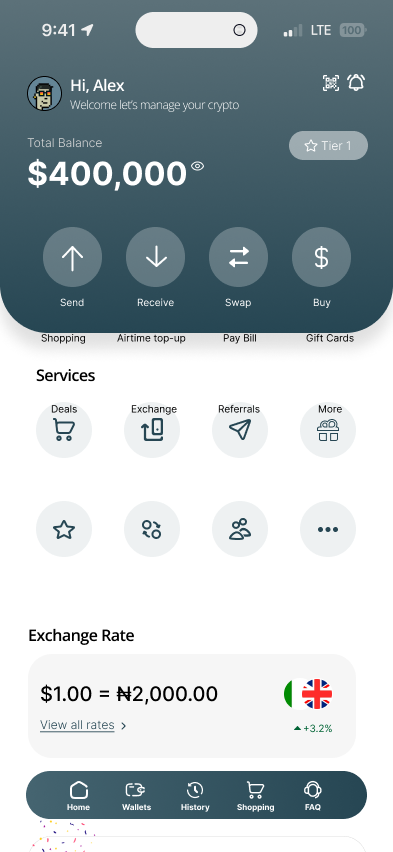
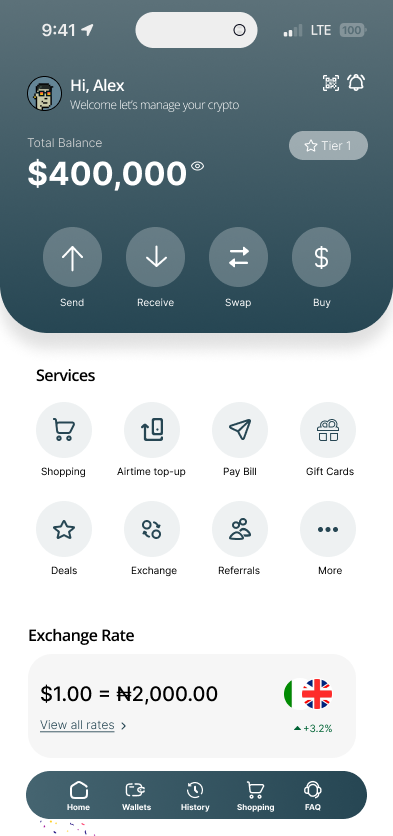
Help2Pay: BroadMoney-style mockups + correct dashboard
- Phone mockups: cs-phone with aspect-ratio 9/19.5, inset screen, object-fit cover
- Laptop mockups: BroadMoney-style with traffic light dots, proper base bar
- Corrected dashboard image (Hi Alex with Services grid)
- All screens fit properly in frames without distortion

diff --git a/case-help2pay.html b/case-help2pay.html
@@ -58,22 +58,22 @@
   .footer__copyright{text-align:center;font-size:12px;color:rgba(249,247,242,.3);margin-top:48px;padding-top:24px;border-top:.5px solid rgba(249,247,242,.1)}
   .reveal{opacity:0;transform:translateY(24px);transition:opacity .7s ease,transform .7s ease}.reveal.visible{opacity:1;transform:none}
   
-  /* PHONE MOCKUP */
+  /* PHONE MOCKUP — matches BroadMoney style */
   .phone-card{text-align:center}
-  .phone-card__mockup{width:220px;margin:0 auto;padding:10px;background:#1a1a1a;border-radius:32px;box-shadow:0 20px 60px rgba(0,0,0,.18),inset 0 0 0 2px rgba(255,255,255,.08);position:relative;overflow:hidden}
-  .phone-card__mockup::before{content:'';position:absolute;top:10px;left:50%;transform:translateX(-50%);width:80px;height:22px;background:#1a1a1a;border-radius:0 0 14px 14px;z-index:2}
-  .phone-card__mockup img{width:100%;border-radius:22px;display:block}
+  .cs-phone{width:220px;margin:0 auto;flex-shrink:0;aspect-ratio:9/19.5;background:#1A1A1A;border-radius:36px;box-shadow:0 24px 60px rgba(0,0,0,0.15),0 0 0 1.5px #333;overflow:hidden;position:relative}
+  .cs-phone::before{content:'';position:absolute;top:10px;left:50%;transform:translateX(-50%);width:64px;height:20px;background:#1A1A1A;border-radius:16px;z-index:10}
+  .cs-phone__screen{position:absolute;inset:3px;border-radius:29px;overflow:hidden;background:#fff}
+  .cs-phone__screen img{width:100%;height:100%;object-fit:cover;object-position:top;display:block}
   .phone-card__caption{margin-top:14px;font-size:12px;font-weight:500;letter-spacing:.08em;text-transform:uppercase;color:var(--stone)}
 
-  /* LAPTOP MOCKUP */
-  .cs-laptop-wrap{max-width:1100px;margin:48px auto;padding:0 44px}
-  .cs-laptop{background:#1a1a1a;border-radius:12px 12px 0 0;padding:12px 12px 0;box-shadow:0 20px 60px rgba(0,0,0,.2)}
-  .cs-laptop__bar{display:flex;align-items:center;gap:6px;padding:0 8px 10px}
-  .cs-laptop__dot{width:10px;height:10px;border-radius:50%}
-  .cs-laptop__dot--r{background:#FF5F57}.cs-laptop__dot--y{background:#FFBD2E}.cs-laptop__dot--g{background:#28CA42}
-  .cs-laptop__label{margin-left:auto;font-size:11px;color:rgba(255,255,255,.4);letter-spacing:.1em;text-transform:uppercase}
-  .cs-laptop img{width:100%;display:block;border-radius:4px 4px 0 0}
-  .cs-laptop-base{height:14px;background:#2a2a2a;border-radius:0 0 8px 8px;margin:0 44px}
+  /* LAPTOP MOCKUP — matches BroadMoney style */
+  .cs-laptop-wrap{max-width:920px;margin:32px auto;padding:32px 44px}
+  .cs-laptop{position:relative;border-radius:12px 12px 0 0;overflow:hidden;border:2px solid #333;border-bottom:none;background:#1A1A1A;padding:28px 2px 0;box-shadow:0 16px 48px rgba(0,0,0,0.12)}
+  .cs-laptop::before{content:'';position:absolute;top:0;left:0;right:0;height:28px;background:#2A2A2A;z-index:5}
+  .cs-laptop::after{content:'● ● ●';position:absolute;top:6px;left:14px;font-size:9px;letter-spacing:5px;color:#666;z-index:6}
+  .cs-laptop__screen{width:100%;display:block}
+  .cs-laptop-base{max-width:920px;margin:0 auto;padding:0 44px}
+  .cs-laptop-base__bar{height:14px;background:linear-gradient(to bottom,#555,#333);border-radius:0 0 10px 10px;margin:0 40px;box-shadow:0 4px 12px rgba(0,0,0,0.1)}
 
   /* BEFORE/AFTER */
   .ba-grid{display:grid;grid-template-columns:1fr 1fr;gap:32px;margin:40px 0;align-items:start}
@@ -131,7 +131,7 @@
     .footer__newsletter{padding-left:0;grid-column:1/-1}
     .footer__nameplate{font-size:28vw}
     .cs-laptop-wrap{padding:0 20px}
-    .phone-card__mockup{width:160px}
+    .cs-phone{width:160px}
   }
 </style>
 </head>
@@ -152,9 +152,8 @@
     </div>
   </div>
   <div class="cs-hero__image">
-    <div class="phone-card__mockup" style="width:260px;box-shadow:0 30px 80px rgba(0,0,0,.35)">
-      <img src="h2p-dashboard-new.png" alt="Help2Pay dashboard" />
-    </div>
+    <div class="cs-phone" style="width:260px;box-shadow:0 30px 80px rgba(0,0,0,.35)">
+      <img class="cs-laptop__screen" src="h2p-dashboard-new.png" alt="Help2Pay dashboard" /></div></div>
   </div>
 </section>
 
@@ -195,12 +194,12 @@
     <div class="ba-grid">
       <div class="ba-card">
         <span class="ba-label ba-label--before">Before</span>
-        <div class="phone-card__mockup"><img src="h2p-dashboard-old.png" alt="Original dashboard hiding features" loading="lazy" /></div>
+        <div class="cs-phone"><div class="cs-phone__screen"><img class="cs-laptop__screen" src="h2p-dashboard-old.png" alt="Original dashboard hiding features" loading="lazy" /></div>
         <p class="ba-desc">Features hidden behind nested menus. Gift cards, bills, exchange — users couldn't find them.</p>
       </div>
       <div class="ba-card">
         <span class="ba-label ba-label--after">After redesign</span>
-        <div class="phone-card__mockup"><img src="h2p-dashboard-new.png" alt="Redesigned dashboard with features surfaced" loading="lazy" /></div>
+        <div class="cs-phone"><div class="cs-phone__screen"><img class="cs-laptop__screen" src="h2p-dashboard-new.png" alt="Redesigned dashboard with features surfaced" loading="lazy" /></div>
         <p class="ba-desc">Every service visible above the fold. Feature engagement increased, task completion improved.</p>
       </div>
     </div>
@@ -218,14 +217,14 @@
     <h2>Onboarding that converts <em>skeptics</em></h2>
     <p class="cs-lead">For users new to crypto, the first three screens determine whether they stay or delete. The onboarding strips away jargon, focuses on what the app does (not how it works), and gets users to their first action in under 90 seconds.</p>
     <div class="phone-grid">
-      <div class="phone-card"><div class="phone-card__mockup"><img src="h2p-01-onboarding.png" alt="Onboarding welcome" loading="lazy" /></div><div class="phone-card__caption">Welcome</div></div>
-      <div class="phone-card"><div class="phone-card__mockup"><img src="h2p-03-onboarding-2.png" alt="Onboarding value prop" loading="lazy" /></div><div class="phone-card__caption">Value proposition</div></div>
-      <div class="phone-card"><div class="phone-card__mockup"><img src="h2p-05-sign-up.png" alt="Sign up" loading="lazy" /></div><div class="phone-card__caption">Sign up</div></div>
+      <div class="phone-card"><div class="cs-phone"><div class="cs-phone__screen"><img class="cs-laptop__screen" src="h2p-01-onboarding.png" alt="Onboarding welcome" loading="lazy" /></div></div><div class="phone-card__caption">Welcome</div></div>
+      <div class="phone-card"><div class="cs-phone"><div class="cs-phone__screen"><img class="cs-laptop__screen" src="h2p-03-onboarding-2.png" alt="Onboarding value prop" loading="lazy" /></div></div><div class="phone-card__caption">Value proposition</div></div>
+      <div class="phone-card"><div class="cs-phone"><div class="cs-phone__screen"><img class="cs-laptop__screen" src="h2p-05-sign-up.png" alt="Sign up" loading="lazy" /></div></div><div class="phone-card__caption">Sign up</div></div>
     </div>
     <div class="phone-grid">
-      <div class="phone-card"><div class="phone-card__mockup"><img src="h2p-04-sign-in.png" alt="Sign in" loading="lazy" /></div><div class="phone-card__caption">Sign in</div></div>
-      <div class="phone-card"><div class="phone-card__mockup"><img src="h2p-09-pin.png" alt="Set PIN" loading="lazy" /></div><div class="phone-card__caption">Set PIN</div></div>
-      <div class="phone-card"><div class="phone-card__mockup"><img src="h2p-06-welcome.png" alt="Welcome success" loading="lazy" /></div><div class="phone-card__caption">Welcome aboard</div></div>
+      <div class="phone-card"><div class="cs-phone"><div class="cs-phone__screen"><img class="cs-laptop__screen" src="h2p-04-sign-in.png" alt="Sign in" loading="lazy" /></div></div><div class="phone-card__caption">Sign in</div></div>
+      <div class="phone-card"><div class="cs-phone"><div class="cs-phone__screen"><img class="cs-laptop__screen" src="h2p-09-pin.png" alt="Set PIN" loading="lazy" /></div></div><div class="phone-card__caption">Set PIN</div></div>
+      <div class="phone-card"><div class="cs-phone"><div class="cs-phone__screen"><img class="cs-laptop__screen" src="h2p-06-welcome.png" alt="Welcome success" loading="lazy" /></div></div><div class="phone-card__caption">Welcome aboard</div></div>
     </div>
   </section>
 
@@ -237,20 +236,20 @@
     <div class="ba-grid">
       <div class="ba-card">
         <span class="ba-label ba-label--before">Before — dense single screen</span>
-        <div class="phone-card__mockup"><img src="h2p-send-v2.png" alt="Original send money screen" loading="lazy" /></div>
+        <div class="cs-phone"><div class="cs-phone__screen"><img class="cs-laptop__screen" src="h2p-send-v2.png" alt="Original send money screen" loading="lazy" /></div>
         <p class="ba-desc">Currency, bank, amount, and fees all on one screen. Users paused at conversion math.</p>
       </div>
       <div class="ba-card">
         <span class="ba-label ba-label--after">After — progressive steps</span>
-        <div class="phone-card__mockup"><img src="h2p-send-filled.png" alt="Redesigned send flow" loading="lazy" /></div>
+        <div class="cs-phone"><div class="cs-phone__screen"><img class="cs-laptop__screen" src="h2p-send-filled.png" alt="Redesigned send flow" loading="lazy" /></div>
         <p class="ba-desc">Fee and rate visible before commitment. Bank details confirmed separately. One decision per screen.</p>
       </div>
     </div>
     <div class="phone-grid phone-grid--4">
-      <div class="phone-card"><div class="phone-card__mockup"><img src="h2p-send-bank.png" alt="Send - select bank" loading="lazy" /></div><div class="phone-card__caption">Choose method</div></div>
-      <div class="phone-card"><div class="phone-card__mockup"><img src="h2p-07-send.png" alt="Send amount" loading="lazy" /></div><div class="phone-card__caption">Enter amount</div></div>
-      <div class="phone-card"><div class="phone-card__mockup"><img src="h2p-08-summary.png" alt="Transaction summary" loading="lazy" /></div><div class="phone-card__caption">Review summary</div></div>
-      <div class="phone-card"><div class="phone-card__mockup"><img src="h2p-10-success.png" alt="Success" loading="lazy" /></div><div class="phone-card__caption">Success</div></div>
+      <div class="phone-card"><div class="cs-phone"><div class="cs-phone__screen"><img class="cs-laptop__screen" src="h2p-send-bank.png" alt="Send - select bank" loading="lazy" /></div></div><div class="phone-card__caption">Choose method</div></div>
+      <div class="phone-card"><div class="cs-phone"><div class="cs-phone__screen"><img class="cs-laptop__screen" src="h2p-07-send.png" alt="Send amount" loading="lazy" /></div></div><div class="phone-card__caption">Enter amount</div></div>
+      <div class="phone-card"><div class="cs-phone"><div class="cs-phone__screen"><img class="cs-laptop__screen" src="h2p-08-summary.png" alt="Transaction summary" loading="lazy" /></div></div><div class="phone-card__caption">Review summary</div></div>
+      <div class="phone-card"><div class="cs-phone"><div class="cs-phone__screen"><img class="cs-laptop__screen" src="h2p-10-success.png" alt="Success" loading="lazy" /></div></div><div class="phone-card__caption">Success</div></div>
     </div>
   </section>
 
@@ -260,20 +259,20 @@
     <h2>A full financial <em>ecosystem</em></h2>
     <p class="cs-lead">Help2Pay isn't just a send-money app — it's a platform for swapping currencies, buying gift cards, paying bills, and shopping. Each feature needed to feel native to the app, not bolted on.</p>
     <div class="phone-grid phone-grid--4">
-      <div class="phone-card"><div class="phone-card__mockup"><img src="h2p-11-swap.png" alt="Swap currencies" loading="lazy" /></div><div class="phone-card__caption">Swap</div></div>
-      <div class="phone-card"><div class="phone-card__mockup"><img src="h2p-12-rates.png" alt="Exchange rates" loading="lazy" /></div><div class="phone-card__caption">Live rates</div></div>
-      <div class="phone-card"><div class="phone-card__mockup"><img src="h2p-14-wallets.png" alt="Multi-currency wallets" loading="lazy" /></div><div class="phone-card__caption">Wallets</div></div>
-      <div class="phone-card"><div class="phone-card__mockup"><img src="h2p-15-ngn.png" alt="NGN wallet" loading="lazy" /></div><div class="phone-card__caption">NGN wallet</div></div>
+      <div class="phone-card"><div class="cs-phone"><div class="cs-phone__screen"><img class="cs-laptop__screen" src="h2p-11-swap.png" alt="Swap currencies" loading="lazy" /></div></div><div class="phone-card__caption">Swap</div></div>
+      <div class="phone-card"><div class="cs-phone"><div class="cs-phone__screen"><img class="cs-laptop__screen" src="h2p-12-rates.png" alt="Exchange rates" loading="lazy" /></div></div><div class="phone-card__caption">Live rates</div></div>
+      <div class="phone-card"><div class="cs-phone"><div class="cs-phone__screen"><img class="cs-laptop__screen" src="h2p-14-wallets.png" alt="Multi-currency wallets" loading="lazy" /></div></div><div class="phone-card__caption">Wallets</div></div>
+      <div class="phone-card"><div class="cs-phone"><div class="cs-phone__screen"><img class="cs-laptop__screen" src="h2p-15-ngn.png" alt="NGN wallet" loading="lazy" /></div></div><div class="phone-card__caption">NGN wallet</div></div>
     </div>
     <div class="phone-grid phone-grid--4">
-      <div class="phone-card"><div class="phone-card__mockup"><img src="h2p-18-gift-cards.png" alt="Gift cards" loading="lazy" /></div><div class="phone-card__caption">Gift cards</div></div>
-      <div class="phone-card"><div class="phone-card__mockup"><img src="h2p-19-bills.png" alt="Bill payments" loading="lazy" /></div><div class="phone-card__caption">Pay bills</div></div>
-      <div class="phone-card"><div class="phone-card__mockup"><img src="h2p-17-shopping.png" alt="Shopping" loading="lazy" /></div><div class="phone-card__caption">Shopping</div></div>
-      <div class="phone-card"><div class="phone-card__mockup"><img src="h2p-13-history.png" alt="Transaction history" loading="lazy" /></div><div class="phone-card__caption">History</div></div>
+      <div class="phone-card"><div class="cs-phone"><div class="cs-phone__screen"><img class="cs-laptop__screen" src="h2p-18-gift-cards.png" alt="Gift cards" loading="lazy" /></div></div><div class="phone-card__caption">Gift cards</div></div>
+      <div class="phone-card"><div class="cs-phone"><div class="cs-phone__screen"><img class="cs-laptop__screen" src="h2p-19-bills.png" alt="Bill payments" loading="lazy" /></div></div><div class="phone-card__caption">Pay bills</div></div>
+      <div class="phone-card"><div class="cs-phone"><div class="cs-phone__screen"><img class="cs-laptop__screen" src="h2p-17-shopping.png" alt="Shopping" loading="lazy" /></div></div><div class="phone-card__caption">Shopping</div></div>
+      <div class="phone-card"><div class="cs-phone"><div class="cs-phone__screen"><img class="cs-laptop__screen" src="h2p-13-history.png" alt="Transaction history" loading="lazy" /></div></div><div class="phone-card__caption">History</div></div>
     </div>
     <div class="phone-grid phone-grid--2">
-      <div class="phone-card"><div class="phone-card__mockup"><img src="h2p-16-profile.png" alt="Profile settings" loading="lazy" /></div><div class="phone-card__caption">Profile</div></div>
-      <div class="phone-card"><div class="phone-card__mockup"><img src="h2p-02-dashboard.png" alt="Dashboard overview" loading="lazy" /></div><div class="phone-card__caption">Dashboard</div></div>
+      <div class="phone-card"><div class="cs-phone"><div class="cs-phone__screen"><img class="cs-laptop__screen" src="h2p-16-profile.png" alt="Profile settings" loading="lazy" /></div></div><div class="phone-card__caption">Profile</div></div>
+      <div class="phone-card"><div class="cs-phone"><div class="cs-phone__screen"><img class="cs-laptop__screen" src="h2p-02-dashboard.png" alt="Dashboard overview" loading="lazy" /></div></div><div class="phone-card__caption">Dashboard</div></div>
     </div>
   </section>
 
@@ -287,58 +286,58 @@
 
 <div class="cs-laptop-wrap reveal">
   <div class="cs-laptop">
-    <div class="cs-laptop__bar"><span class="cs-laptop__dot cs-laptop__dot--r"></span><span class="cs-laptop__dot cs-laptop__dot--y"></span><span class="cs-laptop__dot cs-laptop__dot--g"></span><span class="cs-laptop__label">Web dashboard</span></div>
-    <img src="h2p-20-web-dashboard.jpg" alt="Web dashboard" loading="lazy" />
+    <div style="display:none">Web dashboard</span></div>
+    <img class="cs-laptop__screen" src="h2p-20-web-dashboard.jpg" alt="Web dashboard" loading="lazy" />
   </div>
-  <div class="cs-laptop-base"></div>
+  <div class="cs-laptop-base"><div class="cs-laptop-base__bar"></div></div>
 </div>
 
 <div class="cs-laptop-wrap reveal">
   <div class="cs-laptop">
-    <div class="cs-laptop__bar"><span class="cs-laptop__dot cs-laptop__dot--r"></span><span class="cs-laptop__dot cs-laptop__dot--y"></span><span class="cs-laptop__dot cs-laptop__dot--g"></span><span class="cs-laptop__label">Web send flow</span></div>
-    <img src="h2p-21-web-send.jpg" alt="Web send flow" loading="lazy" />
+    <div style="display:none">Web send flow</span></div>
+    <img class="cs-laptop__screen" src="h2p-21-web-send.jpg" alt="Web send flow" loading="lazy" />
   </div>
-  <div class="cs-laptop-base"></div>
+  <div class="cs-laptop-base"><div class="cs-laptop-base__bar"></div></div>
 </div>
 
 <div class="cs-laptop-wrap reveal">
   <div class="cs-laptop">
-    <div class="cs-laptop__bar"><span class="cs-laptop__dot cs-laptop__dot--r"></span><span class="cs-laptop__dot cs-laptop__dot--y"></span><span class="cs-laptop__dot cs-laptop__dot--g"></span><span class="cs-laptop__label">Web wallets</span></div>
-    <img src="h2p-22-wallets.jpg" alt="Web wallets" loading="lazy" />
+    <div style="display:none">Web wallets</span></div>
+    <img class="cs-laptop__screen" src="h2p-22-wallets.jpg" alt="Web wallets" loading="lazy" />
   </div>
-  <div class="cs-laptop-base"></div>
+  <div class="cs-laptop-base"><div class="cs-laptop-base__bar"></div></div>
 </div>
 
 <div class="cs-laptop-wrap reveal">
   <div class="cs-laptop">
-    <div class="cs-laptop__bar"><span class="cs-laptop__dot cs-laptop__dot--r"></span><span class="cs-laptop__dot cs-laptop__dot--y"></span><span class="cs-laptop__dot cs-laptop__dot--g"></span><span class="cs-laptop__label">Web transaction history</span></div>
-    <img src="h2p-23-history.jpg" alt="Web transaction history" loading="lazy" />
+    <div style="display:none">Web transaction history</span></div>
+    <img class="cs-laptop__screen" src="h2p-23-history.jpg" alt="Web transaction history" loading="lazy" />
   </div>
-  <div class="cs-laptop-base"></div>
+  <div class="cs-laptop-base"><div class="cs-laptop-base__bar"></div></div>
 </div>
 
 <div class="cs-laptop-wrap reveal">
   <div class="cs-laptop">
-    <div class="cs-laptop__bar"><span class="cs-laptop__dot cs-laptop__dot--r"></span><span class="cs-laptop__dot cs-laptop__dot--y"></span><span class="cs-laptop__dot cs-laptop__dot--g"></span><span class="cs-laptop__label">Web exchange</span></div>
-    <img src="h2p-24-exchange.jpg" alt="Web exchange" loading="lazy" />
+    <div style="display:none">Web exchange</span></div>
+    <img class="cs-laptop__screen" src="h2p-24-exchange.jpg" alt="Web exchange" loading="lazy" />
   </div>
-  <div class="cs-laptop-base"></div>
+  <div class="cs-laptop-base"><div class="cs-laptop-base__bar"></div></div>
 </div>
 
 <div class="cs-laptop-wrap reveal">
   <div class="cs-laptop">
-    <div class="cs-laptop__bar"><span class="cs-laptop__dot cs-laptop__dot--r"></span><span class="cs-laptop__dot cs-laptop__dot--y"></span><span class="cs-laptop__dot cs-laptop__dot--g"></span><span class="cs-laptop__label">Web settings</span></div>
-    <img src="h2p-25-settings.jpg" alt="Web settings" loading="lazy" />
+    <div style="display:none">Web settings</span></div>
+    <img class="cs-laptop__screen" src="h2p-25-settings.jpg" alt="Web settings" loading="lazy" />
   </div>
-  <div class="cs-laptop-base"></div>
+  <div class="cs-laptop-base"><div class="cs-laptop-base__bar"></div></div>
 </div>
 
 <div class="cs-laptop-wrap reveal">
   <div class="cs-laptop">
-    <div class="cs-laptop__bar"><span class="cs-laptop__dot cs-laptop__dot--r"></span><span class="cs-laptop__dot cs-laptop__dot--y"></span><span class="cs-laptop__dot cs-laptop__dot--g"></span><span class="cs-laptop__label">Web sign up</span></div>
-    <img src="h2p-26-web-sign-up.jpg" alt="Web sign up" loading="lazy" />
+    <div style="display:none">Web sign up</span></div>
+    <img class="cs-laptop__screen" src="h2p-26-web-sign-up.jpg" alt="Web sign up" loading="lazy" />
   </div>
-  <div class="cs-laptop-base"></div>
+  <div class="cs-laptop-base"><div class="cs-laptop-base__bar"></div></div>
 </div>
 
 <div class="cs">
@@ -352,10 +351,10 @@
 
 <div class="cs-laptop-wrap reveal">
   <div class="cs-laptop">
-    <div class="cs-laptop__bar"><span class="cs-laptop__dot cs-laptop__dot--r"></span><span class="cs-laptop__dot cs-laptop__dot--y"></span><span class="cs-laptop__dot cs-laptop__dot--g"></span><span class="cs-laptop__label">Brand guidelines</span></div>
-    <img src="h2p-27-brand.jpg" alt="Help2Pay brand guidelines" loading="lazy" />
+    <div style="display:none">Brand guidelines</span></div>
+    <img class="cs-laptop__screen" src="h2p-27-brand.jpg" alt="Help2Pay brand guidelines" loading="lazy" />
   </div>
-  <div class="cs-laptop-base"></div>
+  <div class="cs-laptop-base"><div class="cs-laptop-base__bar"></div></div>
 </div>
 
 <div class="cs">
